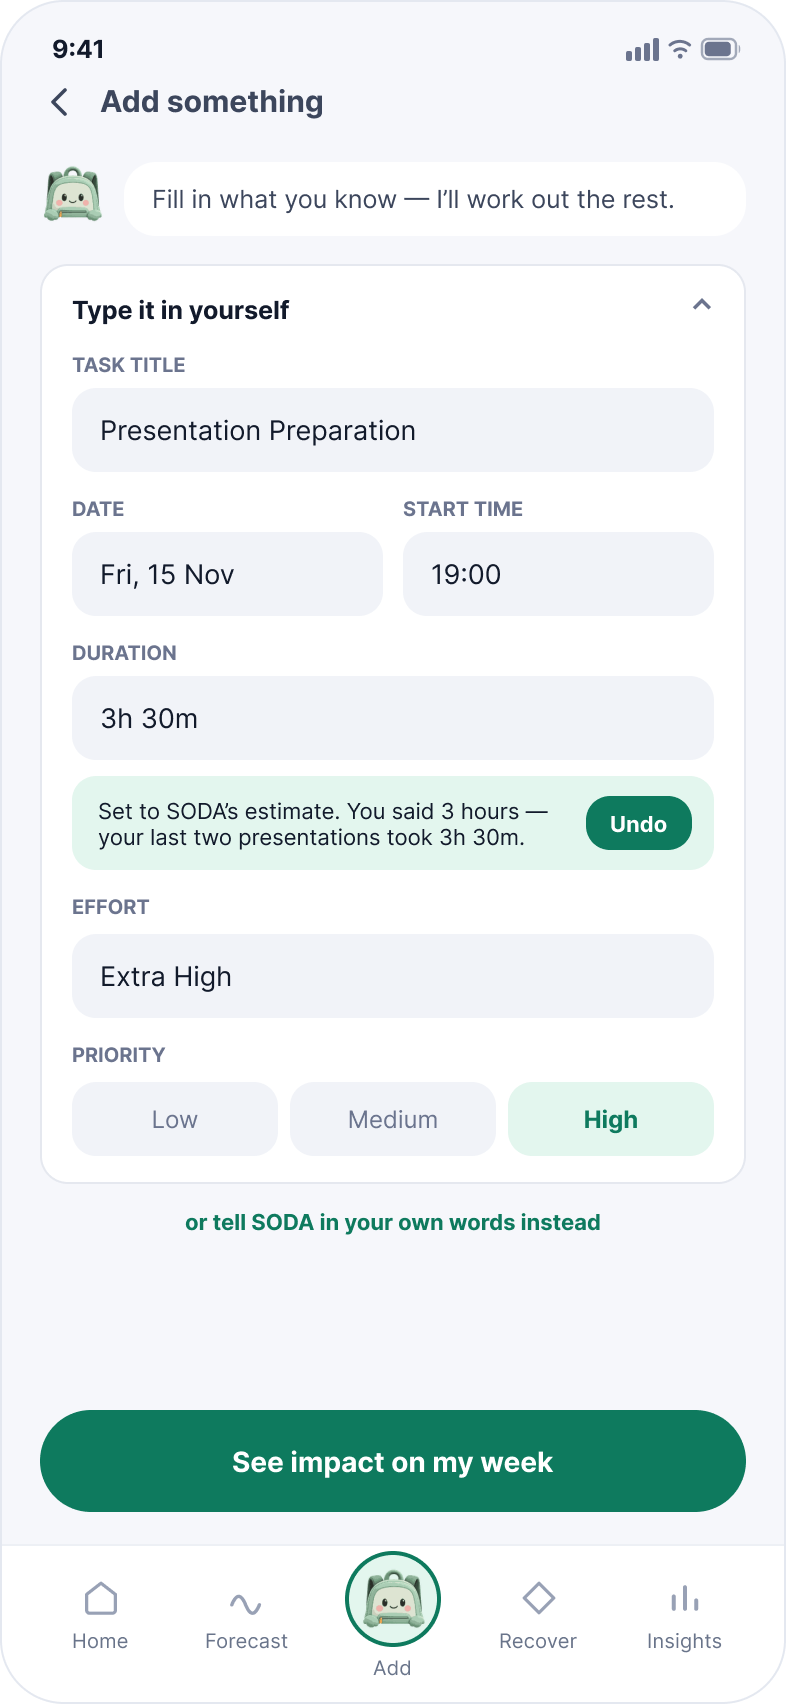
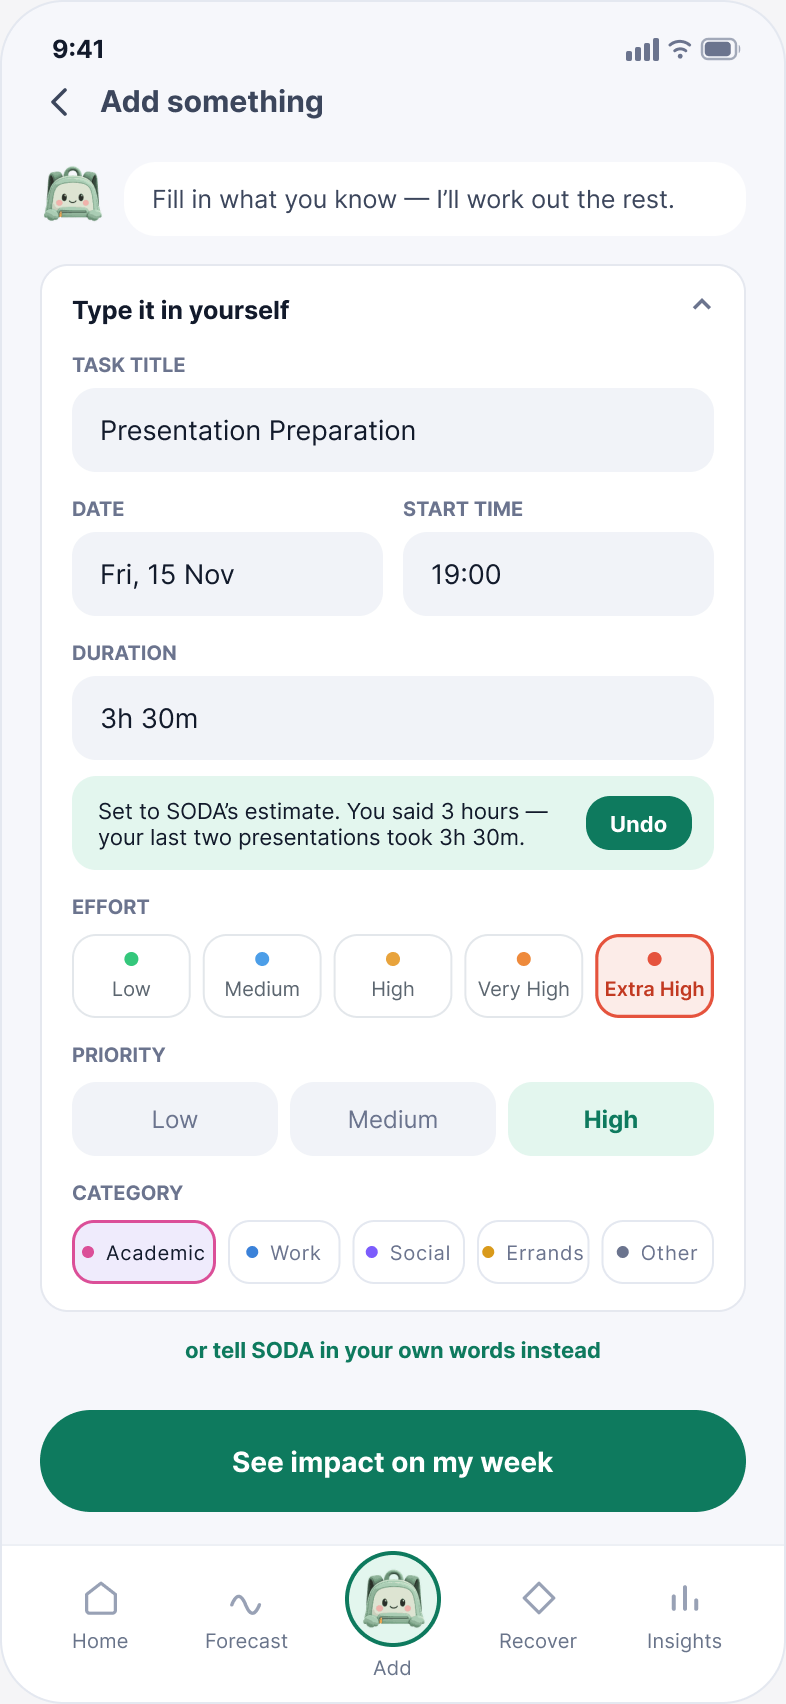
Give all six add screens the same three inputs
The manual add screens and the error-state add screen had disagreed for a
while, each missing something the other had. A star b and A star c offered
effort and priority but no category, which the load model requires: without
it there is no weight vector and nothing can be computed. X4 had category
but no priority control, only a PRIORITY value stacked directly under the
EFFORT label above a single chip row, which read as one control serving
both and is what prompted the question.

All six now carry effort on five levels, priority on three and category on
five, in that order, in both themes. The forms scroll, which also recovers
X4's primary button: its content was already 744 points in a 695 point box,
so the button sat below the clip and was invisible.

No reactions or flows were touched. Re-exported the two screens the README
shows and updated the walkthrough row and alt text to name all three
choices.

diff --git a/README.md b/README.md
@@ -353,8 +353,8 @@ calendar still lands on a working Home.
 <td>Types a sentence, taps the example, or opens the form.</td>
 </tr>
 <tr>
-<td align="center"><img src="images/a-add-manual.png" alt="Add · manual screen" width="170"><br><b>Add · manual</b></td>
-<td>Title, date, time, duration, effort and priority. SODA's duration estimate is applied with a visible <b>Undo</b>.</td>
+<td align="center"><img src="images/a-add-manual.png" alt="Add, manual entry. Title, date, start time and duration, then three separate chip rows: effort from Low to Extra High, priority as Low, Medium or High, and category as Academic, Work, Social, Errands or Other." width="170"><br><b>Add · manual</b></td>
+<td>Title, date, time, duration, then three separate choices: effort on five levels, priority on three, and category. SODA's duration estimate is applied with a visible <b>Undo</b>.</td>
 <td>Fills in what they know, sets priority, taps <b>See impact</b>.</td>
 </tr>
 <tr>
